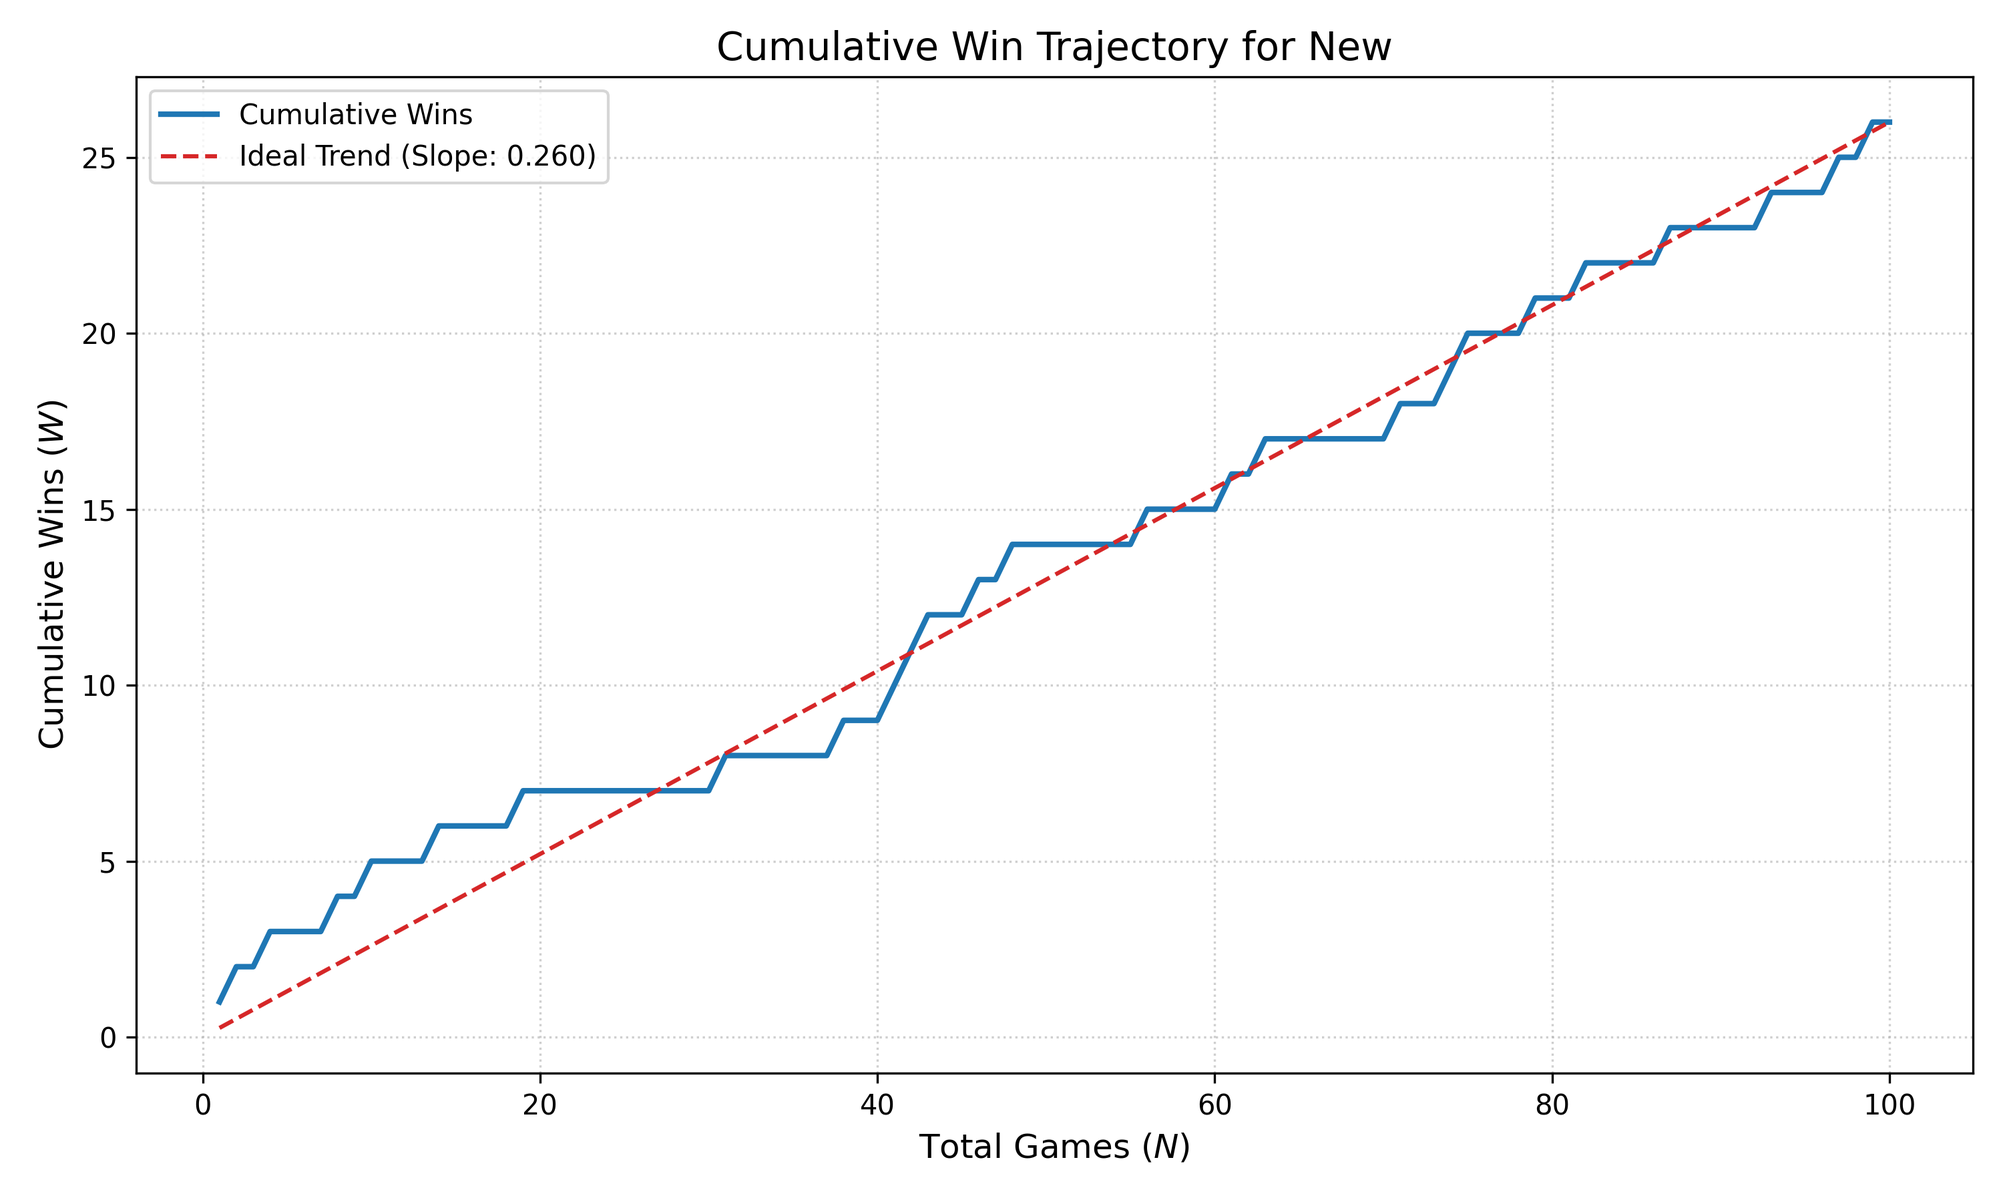
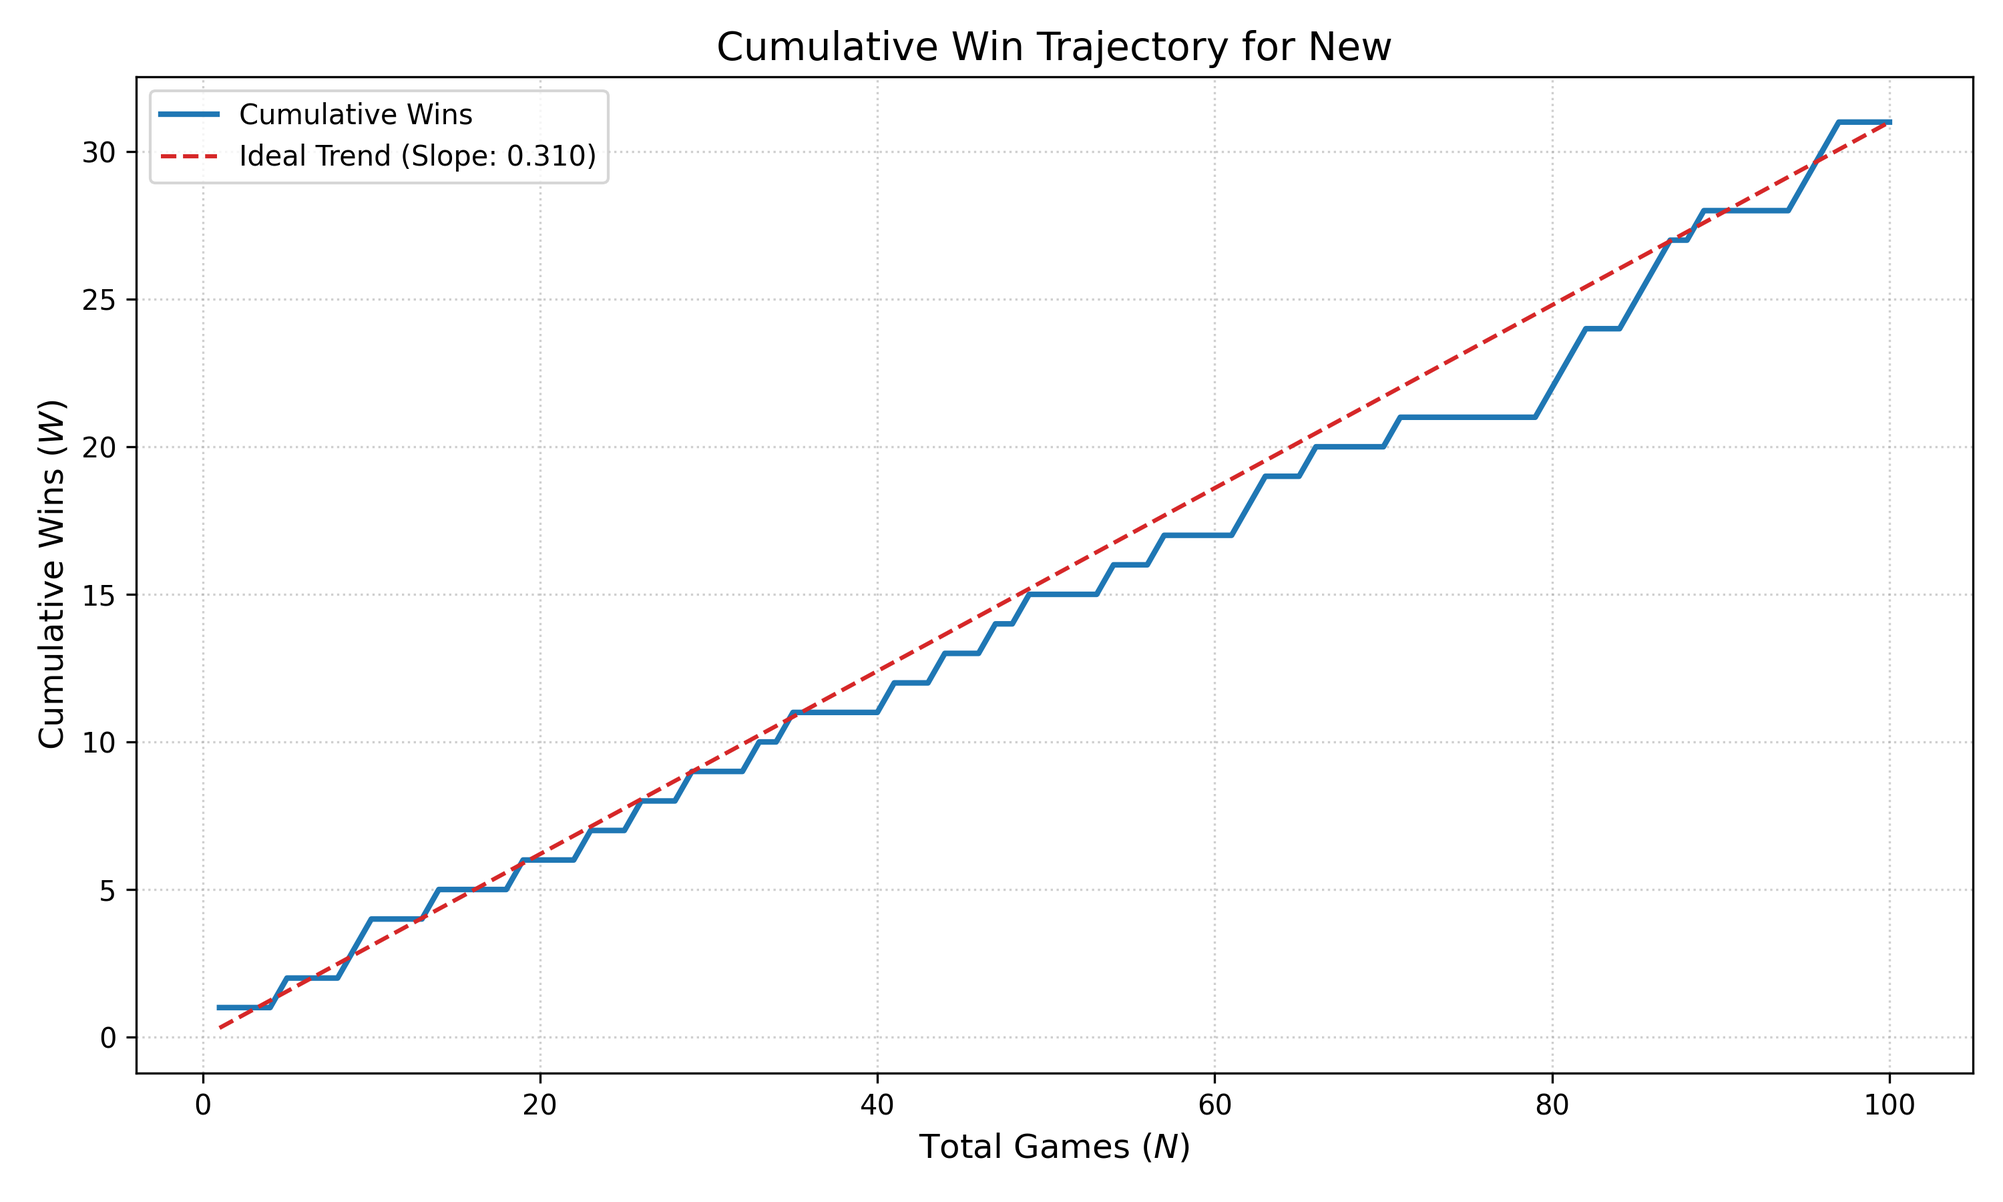
總對局數 : 100 局 戰績統計 : 勝 31 | 和 49 | 負 20 勝率(含和) : 55.50% 和局率 : 49.00% 相對 Elo 變化 : 38.37 95% 信賴區間 : [-10.08, 88.37] 1. 引入了 ttPv（主變例記憶）機制，精確標記並在歷史 PV 路徑的關鍵節點上提供動態的搜尋深度與剪枝保護。 2. 限制 NMP（空著剪枝）僅在 cutNode 觸發，並全面現代化其動態評估門檻與歸約公式，大幅減少了無效節點的錯誤剪枝。 3. 在安全節點上進行更激進的減值（LMR）與邊界剪枝（RFP）

diff --git a/chess_engine/classical/search.py b/chess_engine/classical/search.py
@@ -35,7 +35,7 @@ from chess_engine.classical.constants import (
     ENABLE_MULTICUT, MULTICUT_MIN_DEPTH, MULTICUT_M, MULTICUT_C,
     STOP_SEARCH_FLAG, MAX_HISTORY,
     SCORE_TT_MOVE, SCORE_GOOD_CAPTURE_BONUS, SCORE_KILLER_1,
-    SCORE_KILLER_2, SCORE_COUNTER_MOVE, SCORE_BAD_CAPTURE_PENALTY, NMP_STATIC_MARGIN,
+    SCORE_KILLER_2, SCORE_COUNTER_MOVE, SCORE_BAD_CAPTURE_PENALTY,
     NMP_MIN_SIDE_NON_PAWNS, NMP_VERIFICATION_DEPTH, LOW_MATERIAL_PRUNING_PIECE_COUNT,
     ENABLE_SHALLOW_SEE_PRUNING, ENABLE_HISTORY_PRUNING, PRUNING_SHALLOW_DEPTH,
     PRUNING_CAPTURE_SEE_MARGIN, PRUNING_QUIET_SEE_MARGIN, PRUNING_HISTORY_THRESHOLD,
@@ -555,6 +555,13 @@ def _search(piece_bbs, occupancy_bbs, game_state, depth, alpha, beta, search_con
     tt_key = get_tt_key(zobrist_key, halfmove_clock)  # GHI: halfmove-aware key for TT
     tt_entry = probe_tt(search_context.transposition_table, tt_key)
 
+    # Initialize tt_pv flag (TT-PV Memory Heuristic)
+    if is_exclusion_search:
+        tt_pv = search_context.tt_pv_stack[ply]
+    else:
+        tt_pv = is_pv or (tt_entry['flag'] != TT_FLAG_NONE and tt_entry['is_pv'])
+    search_context.tt_pv_stack[ply] = tt_pv
+
     # 1. ALWAYS retrieve the best move if available (Critical for Move Ordering)
     if tt_entry['flag'] != TT_FLAG_NONE:
         tt_move = tt_entry['best_move']
@@ -733,6 +740,12 @@ def _search(piece_bbs, occupancy_bbs, game_state, depth, alpha, beta, search_con
                 
             rfp_margin = rfp_multiplier * depth
             
+            # TT-PV Dual Strategy
+            if tt_pv:
+                rfp_margin += 85 * depth
+            else:
+                rfp_margin = rfp_margin * 7 // 8
+                
             # C1: Tighter margin when not improving
             if not improving:
                 rfp_margin = rfp_margin * 3 // 4  # 25% tighter when not improving
@@ -742,6 +755,10 @@ def _search(piece_bbs, occupancy_bbs, game_state, depth, alpha, beta, search_con
                     raw_static_eval, static_score, improving, cached_pinned_white, cached_pinned_black = compute_full_corrected_static_eval(piece_bbs, occupancy_bbs, game_state, search_context, ply)
                     static_eval_is_full = True
                     rfp_margin = rfp_multiplier * depth
+                    if tt_pv:
+                        rfp_margin += 85 * depth
+                    else:
+                        rfp_margin = rfp_margin * 7 // 8
                     if not improving:
                         rfp_margin = rfp_margin * 3 // 4
                 if static_score - rfp_margin >= beta:
@@ -865,20 +882,22 @@ def _search(piece_bbs, occupancy_bbs, game_state, depth, alpha, beta, search_con
                     tt_store_score_pc = probcut_return_score
                     if tt_store_score_pc > MATE_IN_MAX_PLY: tt_store_score_pc += ply
                     elif tt_store_score_pc < -MATE_IN_MAX_PLY: tt_store_score_pc -= ply
-                    store_tt(search_context.transposition_table, tt_key, depth - 3, tt_store_score_pc, np.int16(32767), TT_FLAG_BETA, pc_move, search_context.tt_generation, False)
+                    store_tt(search_context.transposition_table, tt_key, depth - 3, tt_store_score_pc, np.int16(32767), TT_FLAG_BETA, pc_move, search_context.tt_generation, tt_pv)
                     return (np.int32(probcut_return_score), pc_move, nodes_searched, quiescence_nodes, tt_hits)
 
     # --- Null Move Pruning (guarded by H3) ---
-    if (search_context.enable_nmp and not is_exclusion_search and depth >= 3 and not is_currently_in_check
+    if (search_context.enable_nmp and cut_node and not is_exclusion_search and depth >= 3 and not is_currently_in_check
             and not (ply > 0 and search_context.move_stack[ply - 1] == NO_MOVE)
-            and not low_material_pruning_guard
             and side_non_pawn_count >= NMP_MIN_SIDE_NON_PAWNS):
-        if static_score >= beta + NMP_STATIC_MARGIN:
+        
+        nmp_threshold = beta - 14 * depth - 45 * (1 if improving else 0) + 190
+        if static_score >= nmp_threshold:
             if not static_eval_is_full:
                 raw_static_eval, static_score, improving, cached_pinned_white, cached_pinned_black = compute_full_corrected_static_eval(piece_bbs, occupancy_bbs, game_state, search_context, ply)
                 static_eval_is_full = True
+                nmp_threshold = beta - 14 * depth - 45 * (1 if improving else 0) + 190
 
-        if static_score >= beta + NMP_STATIC_MARGIN:
+        if static_score >= nmp_threshold:
             nmp_saved_side = game_state[0]
             nmp_saved_ep   = game_state[2]
             nmp_saved_hmc  = game_state[3]
@@ -889,14 +908,7 @@ def _search(piece_bbs, occupancy_bbs, game_state, depth, alpha, beta, search_con
 
             make_null_move(game_state)
 
-            # V3 3.3: Improved NMP reduction — increased cap and tighter divisor
-            nmp_reduction = 4 + depth // 3 + min(4, (static_score - beta) // 160)
-            # V3 3.3: Material-based adjustment — more aggressive when side has many pieces
-            if side_non_pawn_count >= 3:
-                nmp_reduction += 1
-
-            if not improving:
-                nmp_reduction += 1
+            nmp_reduction = 7 + depth // 3 
             search_depth = max(0, depth - nmp_reduction)
             search_context.reduction_stack[ply + 1] = nmp_reduction
             res_nm = _search(
@@ -1174,7 +1186,7 @@ def _search(piece_bbs, occupancy_bbs, game_state, depth, alpha, beta, search_con
         current_extension = check_extension
 
         # --- Singular Extension (inside loop, TT move only) ---
-        if ENABLE_SINGULAR_EXTENSIONS and ply > 0 and excluded_move == NO_MOVE and move == tt_move and depth >= MIN_SINGULAR_DEPTH and not is_currently_in_check:
+        if ENABLE_SINGULAR_EXTENSIONS and ply > 0 and excluded_move == NO_MOVE and move == tt_move and depth >= MIN_SINGULAR_DEPTH + (1 if tt_pv else 0) and not is_currently_in_check:
             if (tt_entry['flag'] == TT_FLAG_BETA or tt_entry['flag'] == TT_FLAG_EXACT) and tt_entry['depth'] >= depth - 3:
                 se_tt_score = np.int32(tt_entry['score'])
                 if se_tt_score > MATE_IN_MAX_PLY:
@@ -1185,7 +1197,8 @@ def _search(piece_bbs, occupancy_bbs, game_state, depth, alpha, beta, search_con
                 if abs(se_tt_score) >= MATE_IN_MAX_PLY:
                     current_extension = max(current_extension, 0)
                 else:
-                    singular_margin = SINGULAR_MARGIN_MULTIPLIER * depth
+                    se_tt_pv_bonus = 70 if (tt_pv and not is_pv) else 0
+                    singular_margin = (60 + se_tt_pv_bonus) * depth // 59
                     exclusion_beta = se_tt_score - singular_margin
 
                     # Save MovePicker State to prevent Singular Extension from clobbering the parent
@@ -1298,6 +1311,15 @@ def _search(piece_bbs, occupancy_bbs, game_state, depth, alpha, beta, search_con
                 if searched_legal_moves >= 12:
                     lmr += 1
 
+                # ttPv reduction protection (Stockfish-inspired)
+                if tt_pv:
+                    if is_pv:
+                        lmr = max(0, lmr - 2)
+                    else:
+                        lmr = max(0, lmr - 1)
+                elif cut_node:
+                    lmr += 1
+
                 # Clamp LMR to avoid reducing below depth 1
                 lmr = max(0, min(lmr, search_depth - 1))
 
@@ -1329,6 +1351,16 @@ def _search(piece_bbs, occupancy_bbs, game_state, depth, alpha, beta, search_con
                         base_lmr -= 1
 
                     lmr = max(0, base_lmr)
+                    
+                    # ttPv reduction protection (Stockfish-inspired)
+                    if tt_pv:
+                        if is_pv:
+                            lmr = max(0, lmr - 2)
+                        else:
+                            lmr = max(0, lmr - 1)
+                    elif cut_node:
+                        lmr += 1
+
                     lmr = min(lmr, search_depth - 1)
 
             search_context.reduction_stack[ply + 1] = lmr
@@ -1614,7 +1646,12 @@ def _search(piece_bbs, occupancy_bbs, game_state, depth, alpha, beta, search_con
     if raw_static_eval != -INFINITY and abs(raw_static_eval) < MATE_SCORE - MAX_PLY:
         tt_static_eval_to_store = np.int16(raw_static_eval)
 
-    store_tt(search_context.transposition_table, tt_key, depth, tt_score, tt_static_eval_to_store, final_flag, best_move, search_context.tt_generation, is_pv)
+    # Propagate ttPv on fail-low (Alpha Flag)
+    if final_flag == TT_FLAG_ALPHA and ply > 0:
+        tt_pv = tt_pv or search_context.tt_pv_stack[ply - 1]
+        search_context.tt_pv_stack[ply] = tt_pv
+
+    store_tt(search_context.transposition_table, tt_key, depth, tt_score, tt_static_eval_to_store, final_flag, best_move, search_context.tt_generation, tt_pv)
 
     return (max_eval, best_move, nodes_searched, quiescence_nodes, tt_hits)
 

diff --git a/chess_engine/classical_old/search.py b/chess_engine/classical_old/search.py
@@ -35,7 +35,7 @@ from chess_engine.classical_old.constants import (
     ENABLE_MULTICUT, MULTICUT_MIN_DEPTH, MULTICUT_M, MULTICUT_C,
     STOP_SEARCH_FLAG, MAX_HISTORY,
     SCORE_TT_MOVE, SCORE_GOOD_CAPTURE_BONUS, SCORE_KILLER_1,
-    SCORE_KILLER_2, SCORE_COUNTER_MOVE, SCORE_BAD_CAPTURE_PENALTY, NMP_STATIC_MARGIN,
+    SCORE_KILLER_2, SCORE_COUNTER_MOVE, SCORE_BAD_CAPTURE_PENALTY,
     NMP_MIN_SIDE_NON_PAWNS, NMP_VERIFICATION_DEPTH, LOW_MATERIAL_PRUNING_PIECE_COUNT,
     ENABLE_SHALLOW_SEE_PRUNING, ENABLE_HISTORY_PRUNING, PRUNING_SHALLOW_DEPTH,
     PRUNING_CAPTURE_SEE_MARGIN, PRUNING_QUIET_SEE_MARGIN, PRUNING_HISTORY_THRESHOLD,
@@ -555,6 +555,13 @@ def _search(piece_bbs, occupancy_bbs, game_state, depth, alpha, beta, search_con
     tt_key = get_tt_key(zobrist_key, halfmove_clock)  # GHI: halfmove-aware key for TT
     tt_entry = probe_tt(search_context.transposition_table, tt_key)
 
+    # Initialize tt_pv flag (TT-PV Memory Heuristic)
+    if is_exclusion_search:
+        tt_pv = search_context.tt_pv_stack[ply]
+    else:
+        tt_pv = is_pv or (tt_entry['flag'] != TT_FLAG_NONE and tt_entry['is_pv'])
+    search_context.tt_pv_stack[ply] = tt_pv
+
     # 1. ALWAYS retrieve the best move if available (Critical for Move Ordering)
     if tt_entry['flag'] != TT_FLAG_NONE:
         tt_move = tt_entry['best_move']
@@ -733,6 +740,12 @@ def _search(piece_bbs, occupancy_bbs, game_state, depth, alpha, beta, search_con
                 
             rfp_margin = rfp_multiplier * depth
             
+            # TT-PV Dual Strategy
+            if tt_pv:
+                rfp_margin += 85 * depth
+            else:
+                rfp_margin = rfp_margin * 7 // 8
+            
             # C1: Tighter margin when not improving
             if not improving:
                 rfp_margin = rfp_margin * 3 // 4  # 25% tighter when not improving
@@ -742,6 +755,10 @@ def _search(piece_bbs, occupancy_bbs, game_state, depth, alpha, beta, search_con
                     raw_static_eval, static_score, improving, cached_pinned_white, cached_pinned_black = compute_full_corrected_static_eval(piece_bbs, occupancy_bbs, game_state, search_context, ply)
                     static_eval_is_full = True
                     rfp_margin = rfp_multiplier * depth
+                    if tt_pv:
+                        rfp_margin += 85 * depth
+                    else:
+                        rfp_margin = rfp_margin * 7 // 8
                     if not improving:
                         rfp_margin = rfp_margin * 3 // 4
                 if static_score - rfp_margin >= beta:
@@ -865,20 +882,22 @@ def _search(piece_bbs, occupancy_bbs, game_state, depth, alpha, beta, search_con
                     tt_store_score_pc = probcut_return_score
                     if tt_store_score_pc > MATE_IN_MAX_PLY: tt_store_score_pc += ply
                     elif tt_store_score_pc < -MATE_IN_MAX_PLY: tt_store_score_pc -= ply
-                    store_tt(search_context.transposition_table, tt_key, depth - 3, tt_store_score_pc, np.int16(32767), TT_FLAG_BETA, pc_move, search_context.tt_generation, False)
+                    store_tt(search_context.transposition_table, tt_key, depth - 3, tt_store_score_pc, np.int16(32767), TT_FLAG_BETA, pc_move, search_context.tt_generation, tt_pv)
                     return (np.int32(probcut_return_score), pc_move, nodes_searched, quiescence_nodes, tt_hits)
 
     # --- Null Move Pruning (guarded by H3) ---
-    if (search_context.enable_nmp and not is_exclusion_search and depth >= 3 and not is_currently_in_check
+    if (search_context.enable_nmp and cut_node and not is_exclusion_search and depth >= 3 and not is_currently_in_check
             and not (ply > 0 and search_context.move_stack[ply - 1] == NO_MOVE)
-            and not low_material_pruning_guard
             and side_non_pawn_count >= NMP_MIN_SIDE_NON_PAWNS):
-        if static_score >= beta + NMP_STATIC_MARGIN:
+        
+        nmp_threshold = beta - 14 * depth - 45 * (1 if improving else 0) + 190
+        if static_score >= nmp_threshold:
             if not static_eval_is_full:
                 raw_static_eval, static_score, improving, cached_pinned_white, cached_pinned_black = compute_full_corrected_static_eval(piece_bbs, occupancy_bbs, game_state, search_context, ply)
                 static_eval_is_full = True
+                nmp_threshold = beta - 14 * depth - 45 * (1 if improving else 0) + 190
 
-        if static_score >= beta + NMP_STATIC_MARGIN:
+        if static_score >= nmp_threshold:
             nmp_saved_side = game_state[0]
             nmp_saved_ep   = game_state[2]
             nmp_saved_hmc  = game_state[3]
@@ -889,14 +908,7 @@ def _search(piece_bbs, occupancy_bbs, game_state, depth, alpha, beta, search_con
 
             make_null_move(game_state)
 
-            # V3 3.3: Improved NMP reduction — increased cap and tighter divisor
-            nmp_reduction = 4 + depth // 3 + min(4, (static_score - beta) // 160)
-            # V3 3.3: Material-based adjustment — more aggressive when side has many pieces
-            if side_non_pawn_count >= 3:
-                nmp_reduction += 1
-
-            if not improving:
-                nmp_reduction += 1
+            nmp_reduction = 7 + depth // 3 
             search_depth = max(0, depth - nmp_reduction)
             search_context.reduction_stack[ply + 1] = nmp_reduction
             res_nm = _search(
@@ -1174,7 +1186,7 @@ def _search(piece_bbs, occupancy_bbs, game_state, depth, alpha, beta, search_con
         current_extension = check_extension
 
         # --- Singular Extension (inside loop, TT move only) ---
-        if ENABLE_SINGULAR_EXTENSIONS and ply > 0 and excluded_move == NO_MOVE and move == tt_move and depth >= MIN_SINGULAR_DEPTH and not is_currently_in_check:
+        if ENABLE_SINGULAR_EXTENSIONS and ply > 0 and excluded_move == NO_MOVE and move == tt_move and depth >= MIN_SINGULAR_DEPTH + (1 if tt_pv else 0) and not is_currently_in_check:
             if (tt_entry['flag'] == TT_FLAG_BETA or tt_entry['flag'] == TT_FLAG_EXACT) and tt_entry['depth'] >= depth - 3:
                 se_tt_score = np.int32(tt_entry['score'])
                 if se_tt_score > MATE_IN_MAX_PLY:
@@ -1185,7 +1197,8 @@ def _search(piece_bbs, occupancy_bbs, game_state, depth, alpha, beta, search_con
                 if abs(se_tt_score) >= MATE_IN_MAX_PLY:
                     current_extension = max(current_extension, 0)
                 else:
-                    singular_margin = SINGULAR_MARGIN_MULTIPLIER * depth
+                    se_tt_pv_bonus = 70 if (tt_pv and not is_pv) else 0
+                    singular_margin = (60 + se_tt_pv_bonus) * depth // 59
                     exclusion_beta = se_tt_score - singular_margin
 
                     # Save MovePicker State to prevent Singular Extension from clobbering the parent
@@ -1298,6 +1311,15 @@ def _search(piece_bbs, occupancy_bbs, game_state, depth, alpha, beta, search_con
                 if searched_legal_moves >= 12:
                     lmr += 1
 
+                # ttPv reduction protection (Stockfish-inspired)
+                if tt_pv:
+                    if is_pv:
+                        lmr = max(0, lmr - 2)
+                    else:
+                        lmr = max(0, lmr - 1)
+                elif cut_node:
+                    lmr += 1
+
                 # Clamp LMR to avoid reducing below depth 1
                 lmr = max(0, min(lmr, search_depth - 1))
 
@@ -1329,6 +1351,16 @@ def _search(piece_bbs, occupancy_bbs, game_state, depth, alpha, beta, search_con
                         base_lmr -= 1
 
                     lmr = max(0, base_lmr)
+                    
+                    # ttPv reduction protection (Stockfish-inspired)
+                    if tt_pv:
+                        if is_pv:
+                            lmr = max(0, lmr - 2)
+                        else:
+                            lmr = max(0, lmr - 1)
+                    elif cut_node:
+                        lmr += 1
+
                     lmr = min(lmr, search_depth - 1)
 
             search_context.reduction_stack[ply + 1] = lmr
@@ -1614,7 +1646,12 @@ def _search(piece_bbs, occupancy_bbs, game_state, depth, alpha, beta, search_con
     if raw_static_eval != -INFINITY and abs(raw_static_eval) < MATE_SCORE - MAX_PLY:
         tt_static_eval_to_store = np.int16(raw_static_eval)
 
-    store_tt(search_context.transposition_table, tt_key, depth, tt_score, tt_static_eval_to_store, final_flag, best_move, search_context.tt_generation, is_pv)
+    # Propagate ttPv on fail-low (Alpha Flag)
+    if final_flag == TT_FLAG_ALPHA and ply > 0:
+        tt_pv = tt_pv or search_context.tt_pv_stack[ply - 1]
+        search_context.tt_pv_stack[ply] = tt_pv
+
+    store_tt(search_context.transposition_table, tt_key, depth, tt_score, tt_static_eval_to_store, final_flag, best_move, search_context.tt_generation, tt_pv)
 
     return (max_eval, best_move, nodes_searched, quiescence_nodes, tt_hits)
 

diff --git a/chess_engine/classical/engine_types.py b/chess_engine/classical/engine_types.py
@@ -83,6 +83,7 @@ search_context_spec = [
     ('enable_multicut', numba.boolean),
     ('cutoff_cnt', numba.int32[::1]),
     ('reduction_stack', numba.int32[::1]),
+    ('tt_pv_stack', numba.boolean[::1]),
 ]
 
 @jitclass(search_context_spec)
@@ -192,6 +193,7 @@ class _SearchContextJIT:
         
         self.cutoff_cnt = np.zeros(MAX_PLY, dtype=np.int32)
         self.reduction_stack = np.zeros(MAX_PLY, dtype=np.int32)
+        self.tt_pv_stack = np.zeros(MAX_PLY, dtype=np.bool_)
 
 
 

diff --git a/chess_engine/classical_old/engine_types.py b/chess_engine/classical_old/engine_types.py
@@ -83,6 +83,7 @@ search_context_spec = [
     ('enable_multicut', numba.boolean),
     ('cutoff_cnt', numba.int32[::1]),
     ('reduction_stack', numba.int32[::1]),
+    ('tt_pv_stack', numba.boolean[::1]),
 ]
 
 @jitclass(search_context_spec)
@@ -192,6 +193,7 @@ class _SearchContextJIT:
         
         self.cutoff_cnt = np.zeros(MAX_PLY, dtype=np.int32)
         self.reduction_stack = np.zeros(MAX_PLY, dtype=np.int32)
+        self.tt_pv_stack = np.zeros(MAX_PLY, dtype=np.bool_)
 
 
 
